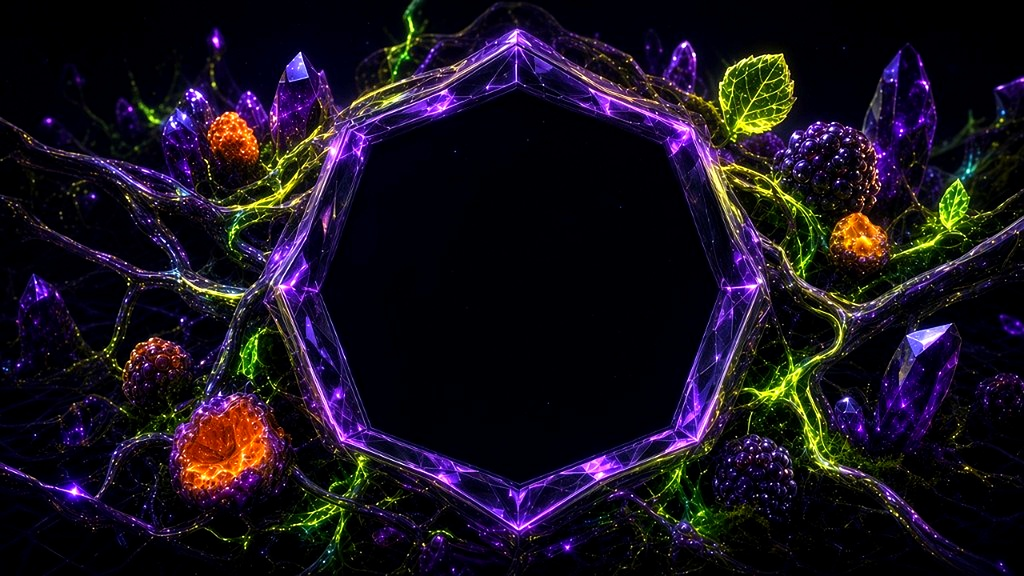
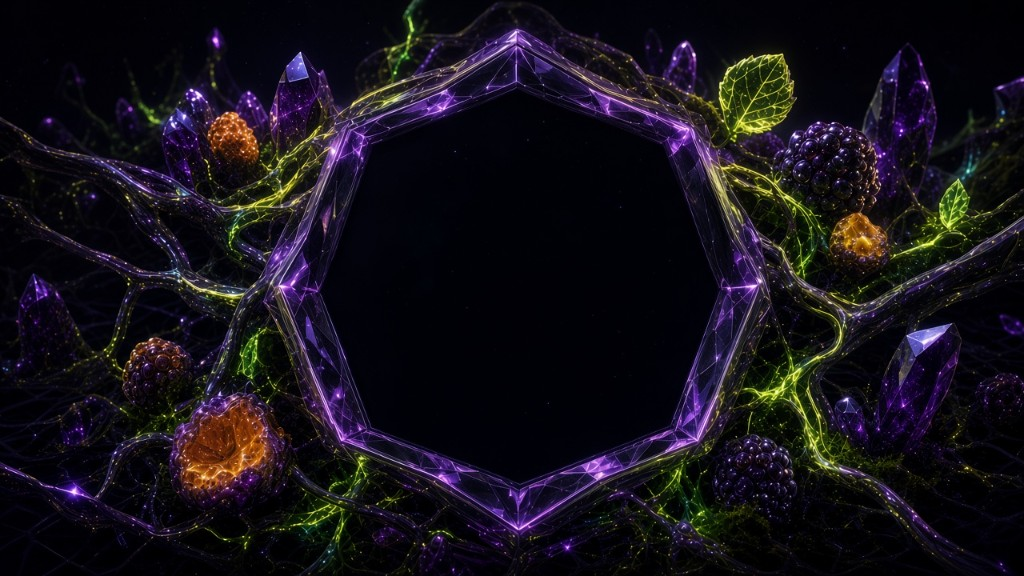
Tone hub art back to clean brightness and keep tiles inside the crystal.
Use contain on a shared 16:9 frame so the garden is fully visible, drop toxic filters, and inset the centered 3x3 from the polygon rim.

diff --git a/src/app/globals.css b/src/app/globals.css
@@ -22370,12 +22370,9 @@ body:has(.not-found-page) .site-footer-note {
 }
 
 /* ===== Home hub rebrand (flag HOME_HUB_REBRAND) ===== */
-/* кристалл-сад = единственный фон на весь экран; старый ops-theater убран */
+/* яркость как на clean-art; без токсичных фильтров; узор целиком в кадре */
 body:has(.home-page.is-hub),
-.shell:has(.home-page.is-hub) {
-  background: #05040a;
-}
-
+.shell:has(.home-page.is-hub),
 .home-page.is-hub {
   background: #05040a;
 }
@@ -22383,20 +22380,17 @@ body:has(.home-page.is-hub),
 .home-page.is-hub .home-stage {
   inset: 0;
   z-index: 0;
+  background: #05040a;
 }
 
 .home-page.is-hub .home-stage-photo {
-  background: url("/home-hub/hub-poly-clean-v4.jpg?v=3") center / cover no-repeat;
-  background-color: #05040a;
+  background: #05040a;
   transform: none;
   animation: none;
-  filter: saturate(1.25) contrast(1.14) brightness(1.04);
+  filter: none;
 }
 
-.home-page.is-hub .home-stage-veil {
-  display: none !important;
-}
-
+.home-page.is-hub .home-stage-veil,
 .home-page.is-hub .home-stage-topo,
 .home-page.is-hub .home-stage-rays,
 .home-page.is-hub .home-stage-scan,
@@ -22424,21 +22418,28 @@ body:has(.home-page.is-hub),
   grid-area: hub;
   position: relative;
   display: grid;
-  place-items: stretch;
+  place-items: center;
   width: 100%;
   height: 100%;
   min-height: 0;
   padding: 0;
   box-sizing: border-box;
+  background: #05040a;
 }
 
-/* контейнер сетки — без своей картинки (фон уже на stage) */
+/* 16:9 кадр = картинка целиком (contain), сетка в том же боксе */
 .home-hub-poly {
   position: relative;
   z-index: 2;
-  width: 100%;
   height: 100%;
-  background: none;
+  width: auto;
+  aspect-ratio: 16 / 9;
+  max-width: 100%;
+  max-height: 100%;
+  background-color: #05040a;
+  background-position: center;
+  background-repeat: no-repeat;
+  background-size: contain;
 }
 
 /* CW rail: угол слева, вне блока разделов */
@@ -22561,14 +22562,14 @@ body:has(.home-page.is-hub),
   background: rgba(110, 35, 55, 0.55);
 }
 
-/* квадрат как был (~34%), чуть уже на пару % — внутрь полигона */
+/* ровно по центру узора; щиты не касаются кристальной рамки */
 .home-hub-grid {
   position: absolute;
   z-index: 1;
   left: 50%;
   top: 50%;
   translate: -50% -50%;
-  width: 32.5%;
+  width: 29%;
   aspect-ratio: 1 / 1;
   height: auto;
   display: grid;
@@ -22577,6 +22578,8 @@ body:has(.home-page.is-hub),
   gap: 4px;
   min-width: 0;
   min-height: 0;
+  padding: 2px;
+  box-sizing: border-box;
 }
 
 .home-hub-tile {

diff --git a/src/components/HomeHub.tsx b/src/components/HomeHub.tsx
@@ -38,7 +38,10 @@ export function HomeHub({ showCw, cwCards }: Props) {
         )}
       </aside>
 
-      <div className="home-hub-poly">
+      <div
+        className="home-hub-poly"
+        style={{ backgroundImage: "url(/home-hub/hub-poly-clean-v4.jpg?v=4)" }}
+      >
         <nav className="home-hub-grid" aria-label="Быстрые разделы">
           {HOME_HUB_TILES.map((tile) => (
             <Link

diff --git a/docs/CHANGELOG.md b/docs/CHANGELOG.md
@@ -1,3 +1,9 @@
+## v. 1.2.156 — 05.11.2026 · Хаб: нормальная яркость + contain
+
+Узор как на clean-art (без токсичных фильтров), целиком в кадре. Сетка по центру полигона с зазором от кристалла.
+
+---
+
 ## v. 1.2.155 — 05.11.2026 · Хаб: сад на весь фон, сетка чуть уже
 
 Старый фон убран. Crystal-grove — единственный full-bleed фон. Сетка ~как была, чуть уже внутрь полигона.
